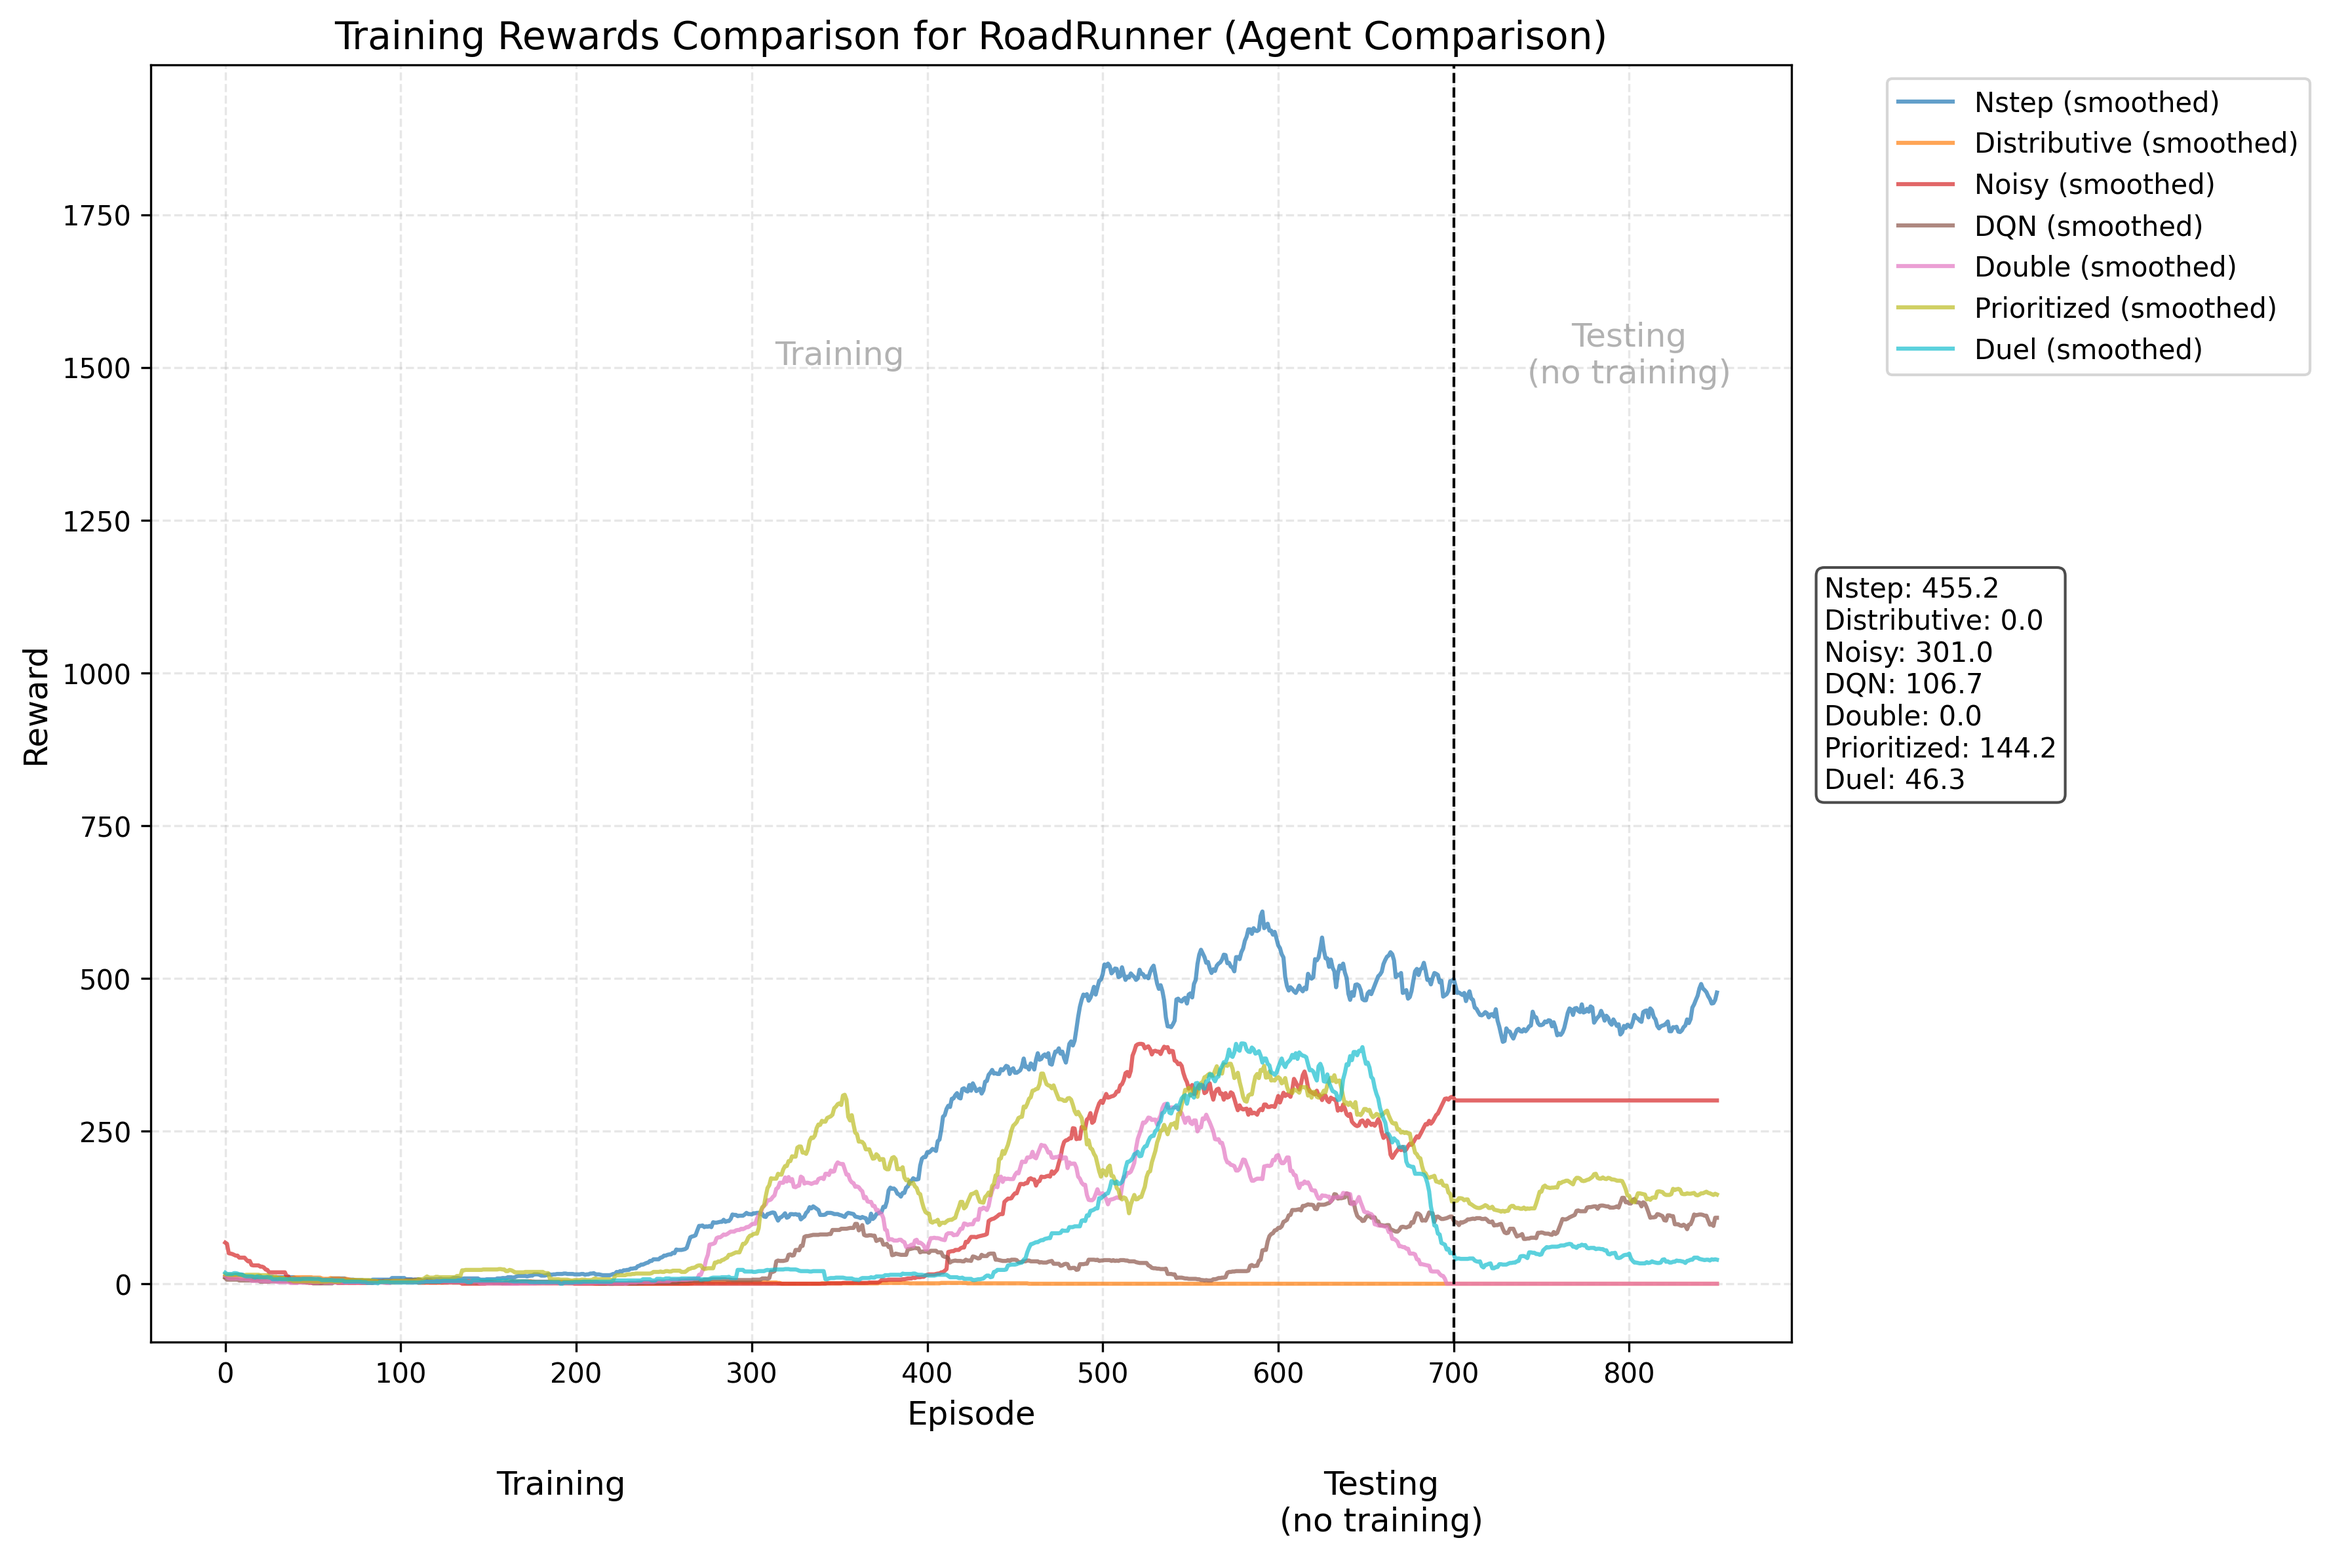
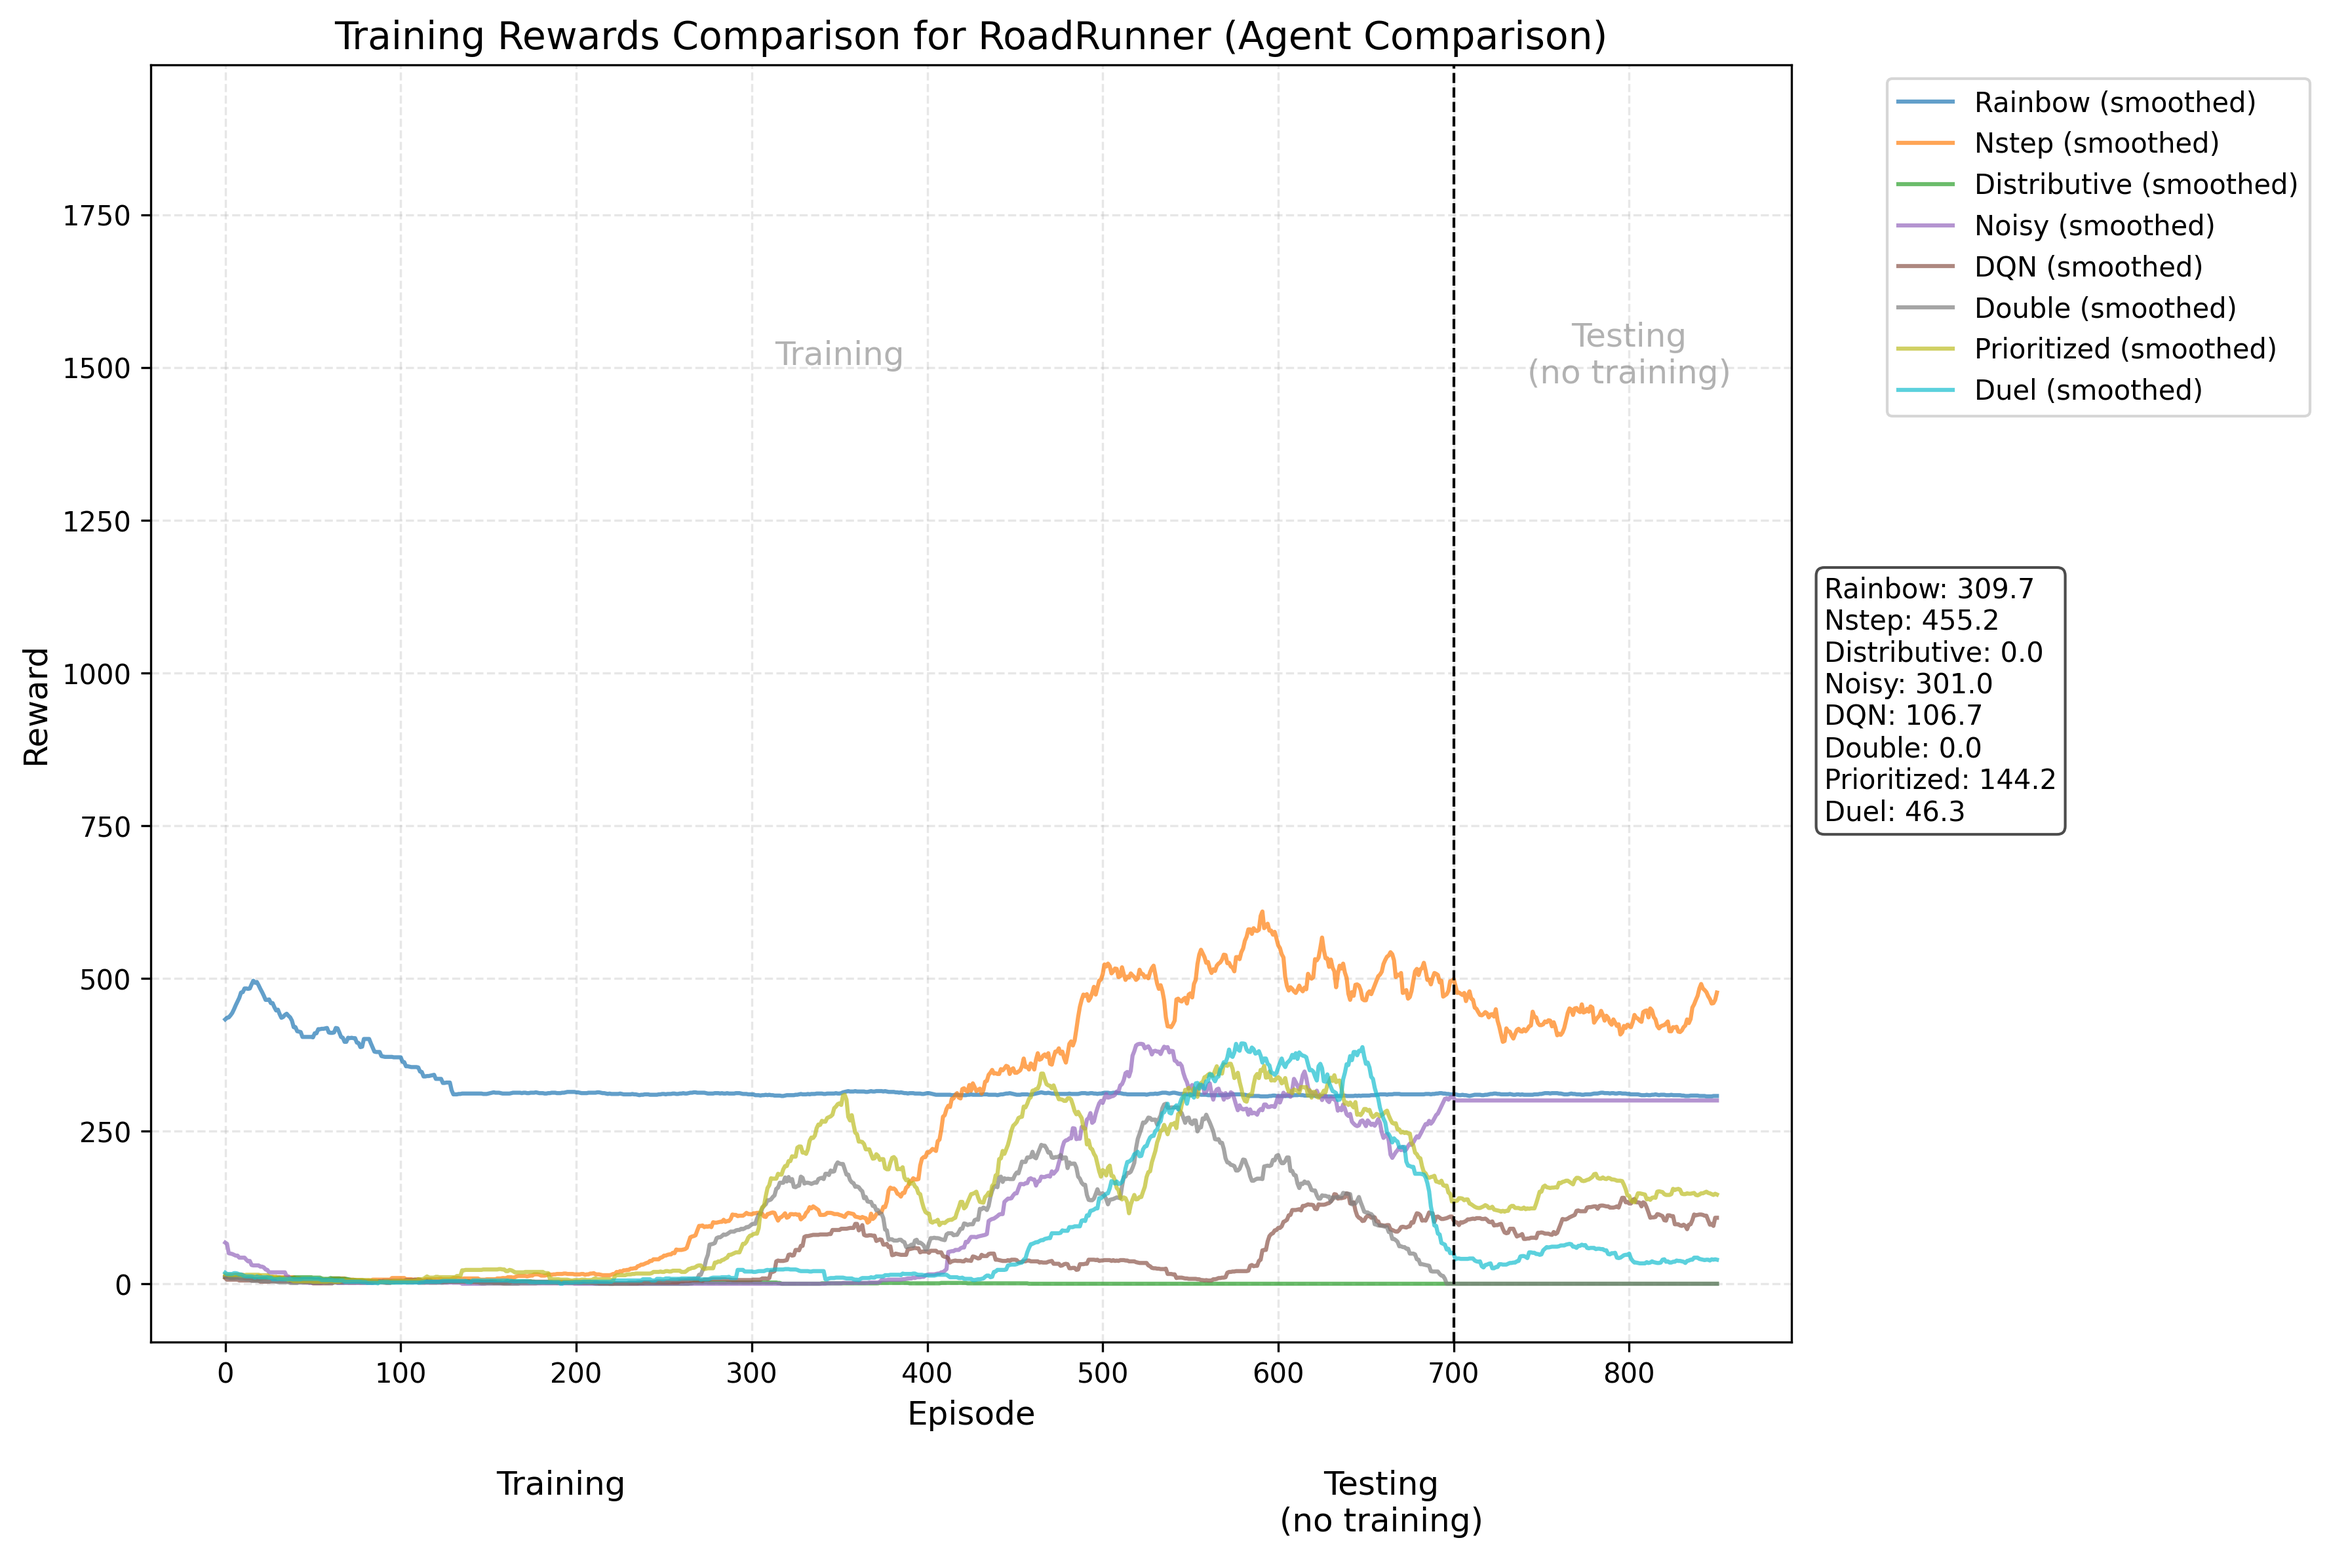
fixed - in plot

diff --git a/plot.py b/plot.py
@@ -22,7 +22,7 @@ def _plot_group(npy_files, directory, suffix,
     for i, fp in enumerate(npy_files):
         name = os.path.basename(fp).replace('.npy','')
         # strip off game + separator to get the variant label
-        variant = name[len(game)+7:].lstrip('_-')
+        variant = name[len(game)+7:].lstrip('_')
         data = np.load(fp, allow_pickle=True)
         avg  = [(x+y+z)/3.0 for x,y,z in zip(data[0], data[1], data[2])]
         all_min.append(min(avg)); all_max.append(max(avg))
